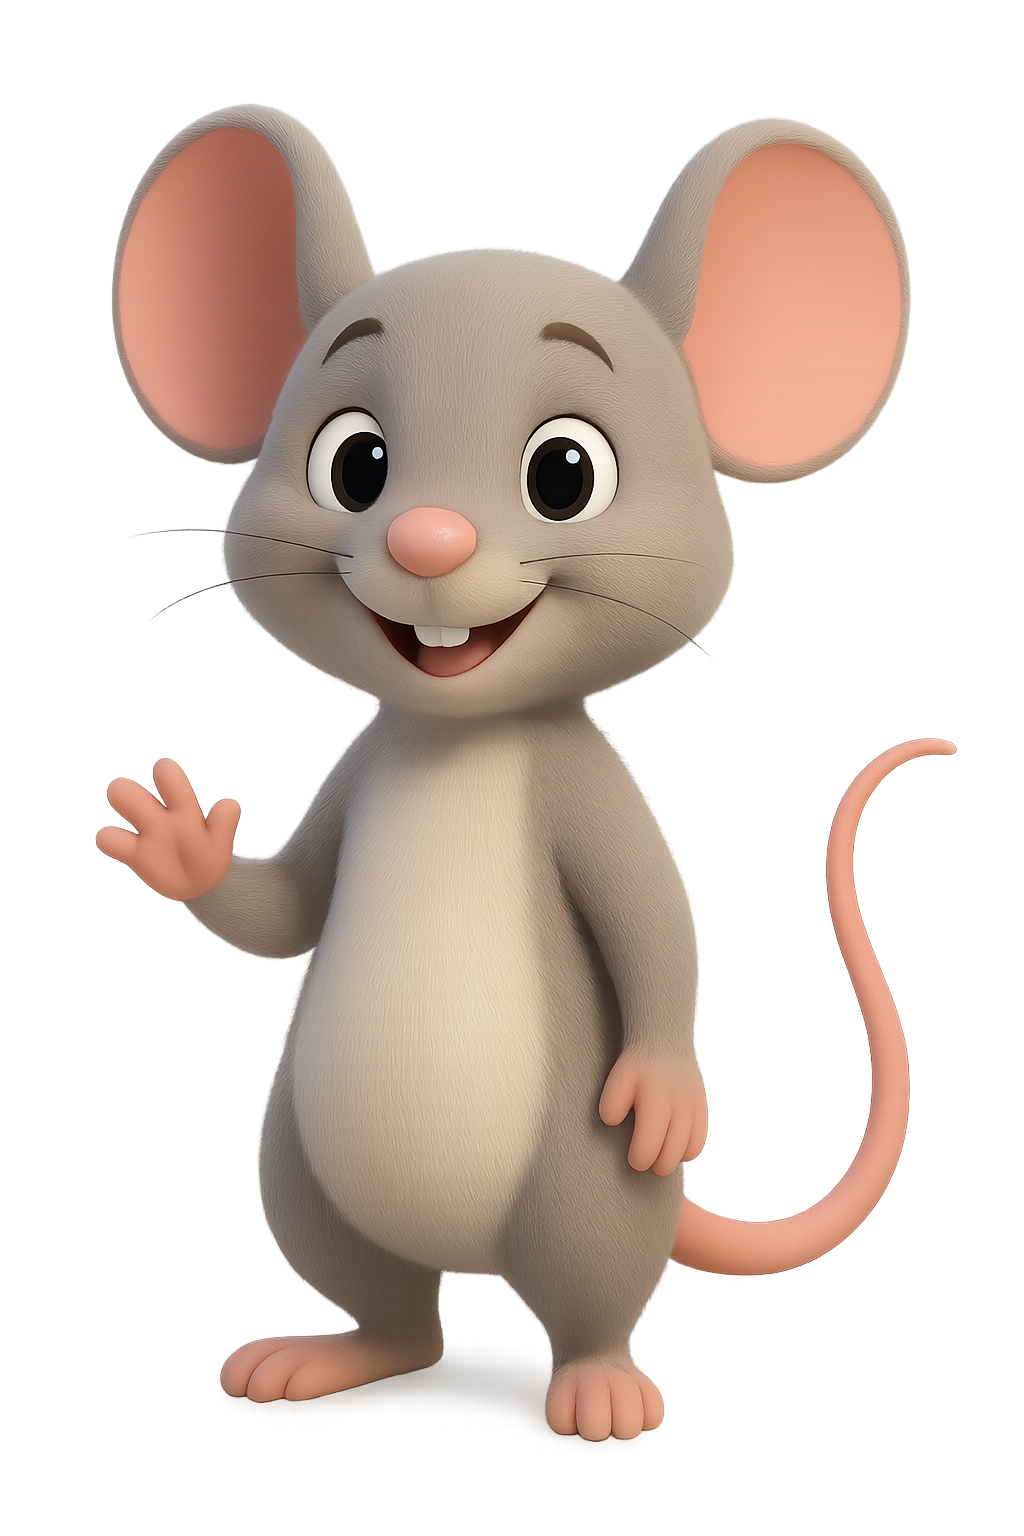
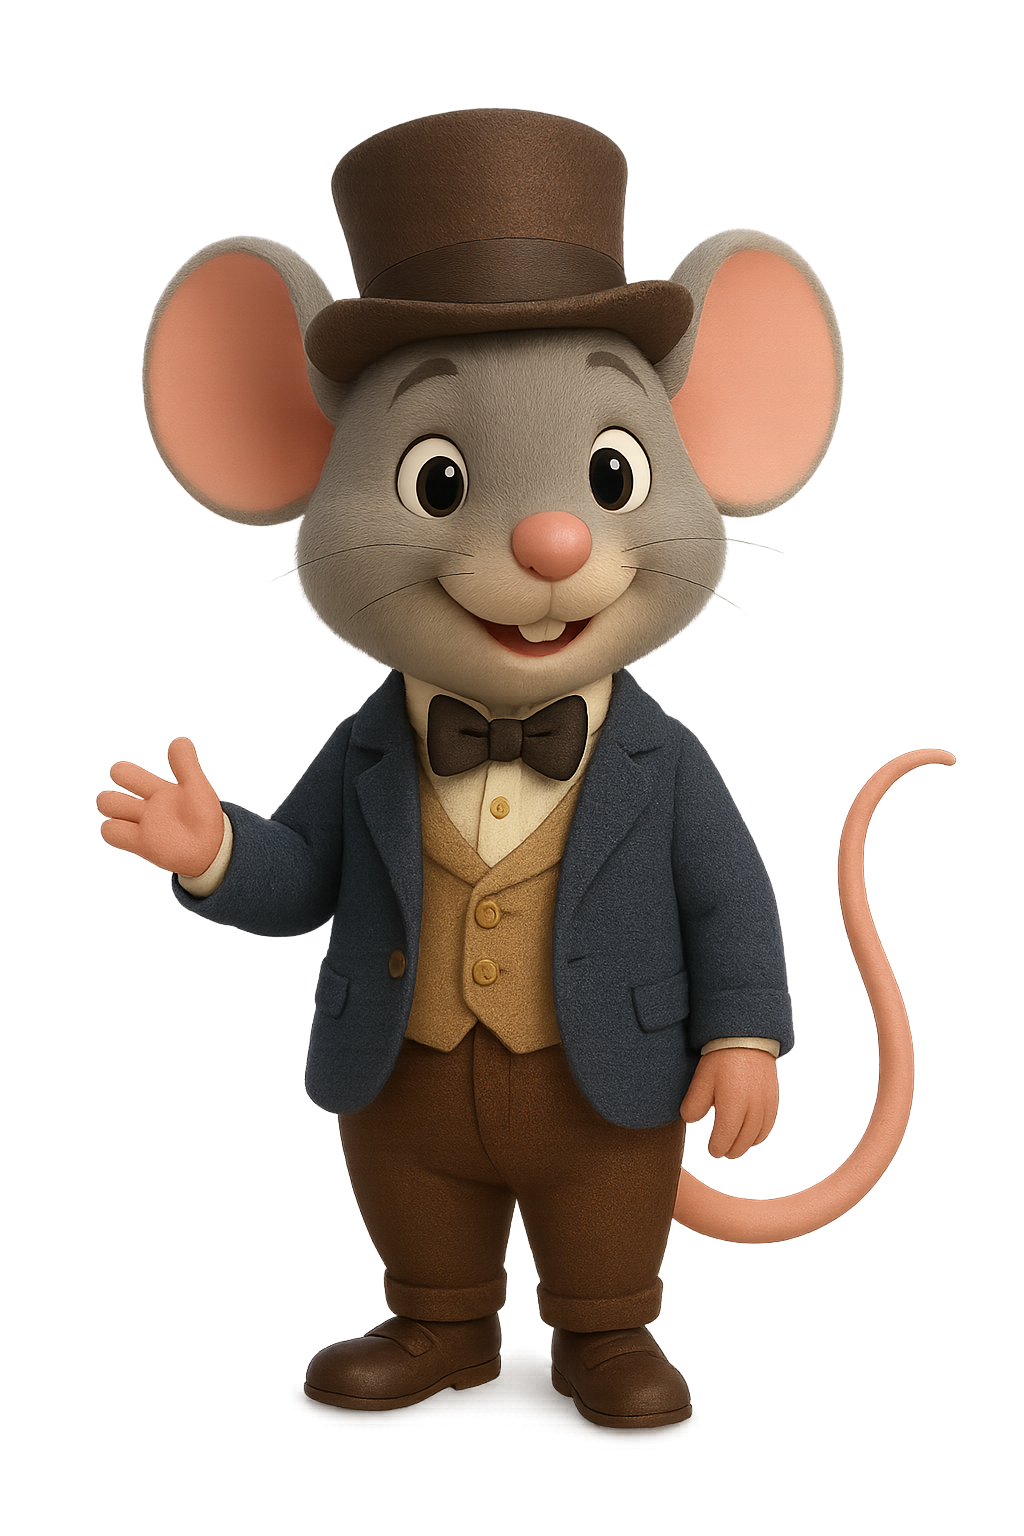
feat: Various changes: removing the date, modifying prices, and tweaking the CSS aesthetics.

diff --git a/client/components/forms.py b/client/components/forms.py
@@ -20,10 +20,6 @@ def create_planning_form():
             
             html.Hr(className="form-divider"),
             
-            create_dates_section(),
-            
-            html.Hr(className="form-divider"),
-            
             create_duration_budget_section(),
             
             html.Hr(className="form-divider"),
@@ -52,41 +48,13 @@ def create_destination_section():
             id="destination-input",
             options=[
                 {"label": "🏛️ Madrid Centro", "value": "Madrid Centro"},
-                {"label": "🌳 Madrid + Alrededores", "value": "Madrid Alrededores"},
                 {"label": "🎪 Madrid Completo", "value": "Madrid Completo"},
-                {"label": "🏰 Madrid + Toledo", "value": "Madrid Toledo"},
-                {"label": "🌲 Madrid + Segovia", "value": "Madrid Segovia"}
             ],
             placeholder="Selecciona tu destino mágico...",
             className="magical-select"
         ),
         html.Small(
             "El Ratoncito Pérez conoce los mejores rincones de cada zona 🐭",
-            className="form-help-text"
-        )
-    ], className="form-section")
-
-
-def create_dates_section():
-    """Sección de selección de fechas"""
-    today = date.today()
-    max_date = today + timedelta(days=365)
-    
-    return html.Div([
-        html.Label([
-            "📅 ¿Cuándo comenzará tu aventura?",
-            html.Span(" *", className="required-field")
-        ], className="form-label"),
-        dcc.DatePickerSingle(
-            id="date-picker",
-            date=today + timedelta(days=7),
-            min_date_allowed=today,
-            max_date_allowed=max_date,
-            display_format='DD/MM/YYYY',
-            className="magical-date-picker"
-        ),
-        html.Small(
-            "¡El Ratoncito Pérez está disponible todo el año! ✨",
             className="form-help-text"
         )
     ], className="form-section")
@@ -105,13 +73,13 @@ def create_duration_budget_section():
                 step=1,
                 value=2,
                 marks={
-                    1: {'label': '1 día', 'style': {'color': '#8B4513'}},
-                    2: {'label': '2 días', 'style': {'color': '#8B4513'}},
-                    3: {'label': '3 días', 'style': {'color': '#8B4513'}},
-                    4: {'label': '4 días', 'style': {'color': '#8B4513'}},
-                    5: {'label': '5 días', 'style': {'color': '#8B4513'}},
-                    6: {'label': '6 días', 'style': {'color': '#8B4513'}},
-                    7: {'label': '1 semana', 'style': {'color': '#8B4513'}}
+                    1: {'label': '1 día', 'style': {'color': "#FFFFFF"}},
+                    2: {'label': '2 días', 'style': {'color': "#FFFFFF"}},
+                    3: {'label': '3 días', 'style': {'color': "#FFFFFF"}},
+                    4: {'label': '4 días', 'style': {'color': "#FFFFFF"}},
+                    5: {'label': '5 días', 'style': {'color': "#FFFFFF"}},
+                    6: {'label': '6 días', 'style': {'color': "#FFFFFF"}},
+                    7: {'label': '1 semana', 'style': {'color': "#FFFFFF"}}
                 },
                 className="magical-slider"
             )
@@ -129,11 +97,11 @@ def create_duration_budget_section():
                 step=10,
                 value=80,
                 marks={
-                    30: {'label': '30€', 'style': {'color': '#8B4513'}},
-                    60: {'label': '60€', 'style': {'color': '#8B4513'}},
-                    100: {'label': '100€', 'style': {'color': '#8B4513'}},
-                    150: {'label': '150€', 'style': {'color': '#8B4513'}},
-                    200: {'label': '200€+', 'style': {'color': '#8B4513'}}
+                    30: {'label': '300€', 'style': {'color': "#FFFFFF"}},
+                    60: {'label': '600€', 'style': {'color': "#FFFFFF"}},
+                    100: {'label': '900€', 'style': {'color': "#FFFFFF"}},
+                    150: {'label': '1200€', 'style': {'color': "#FFFFFF"}},
+                    200: {'label': '1500€+', 'style': {'color': "#FFFFFF"}}
                 },
                 className="magical-slider"
             ),

diff --git a/client/app.py b/client/app.py
@@ -70,22 +70,12 @@ app.layout = dbc.Container([
      State('duration-slider', 'value'),
      State('budget-slider', 'value'),
      State('children-ages', 'value'),
-     State('interests-checklist', 'value'),
-     State('date-picker', 'date')]
+     State('interests-checklist', 'value'),]
 )
-def generate_itinerary(n_clicks, destination, duration, budget, children_ages, interests, travel_date):
+def generate_itinerary(n_clicks, destination, duration, budget, children_ages, interests):
     """Generar itinerario mágico basado en las preferencias del usuario"""
     if not n_clicks:
         return None, [], ""
-    
-    if not destination or not travel_date:
-        return None, [
-            dbc.Alert(
-                "¡Ups! El Ratoncito Pérez necesita saber el destino y la fecha para crear tu aventura mágica 🐭✨",
-                color="warning",
-                className="magical-alert"
-            )
-        ], ""
     
     # Mostrar spinner de carga
     loading_component = dbc.Spinner([
@@ -104,7 +94,6 @@ def generate_itinerary(n_clicks, destination, duration, budget, children_ages, i
             "budget_range": budget,
             "children_ages": children_ages if children_ages else [],
             "interests": interests if interests else [],
-            "travel_date": travel_date,
             "family_size": len(children_ages) + 2 if children_ages else 2
         }
         

diff --git a/client/components/header.py b/client/components/header.py
@@ -9,7 +9,7 @@ def create_header():
                 # Logo y título
                 dbc.NavbarBrand([
                     html.Img(
-                        src="/assets/Ratoncito.png",
+                        src="assets/tooth-icon.png",
                         height="50px",
                         className="navbar-logo"
                     ),

diff --git a/client/utils/api_client.py b/client/utils/api_client.py
@@ -26,7 +26,7 @@ class FastAPIClient:
             endpoint = f"{self.base_url}/api/v1/itinerary/generate"
             
             # Validar datos requeridos
-            required_fields = ["destination", "duration_days", "travel_date"]
+            required_fields = ["destination", "duration_days"]
             for field in required_fields:
                 if field not in planning_data or not planning_data[field]:
                     self.logger.error(f"Campo requerido faltante: {field}")